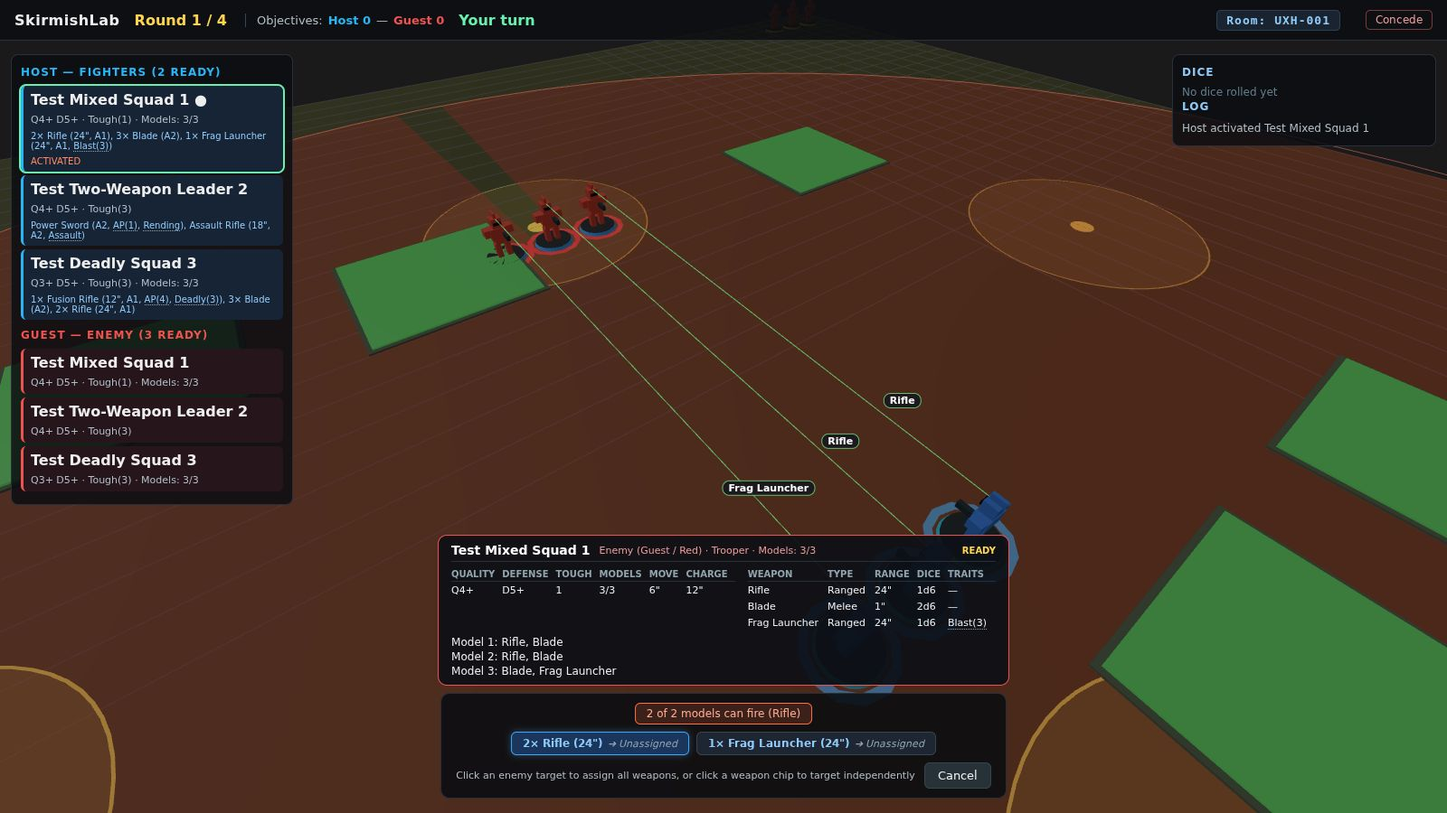
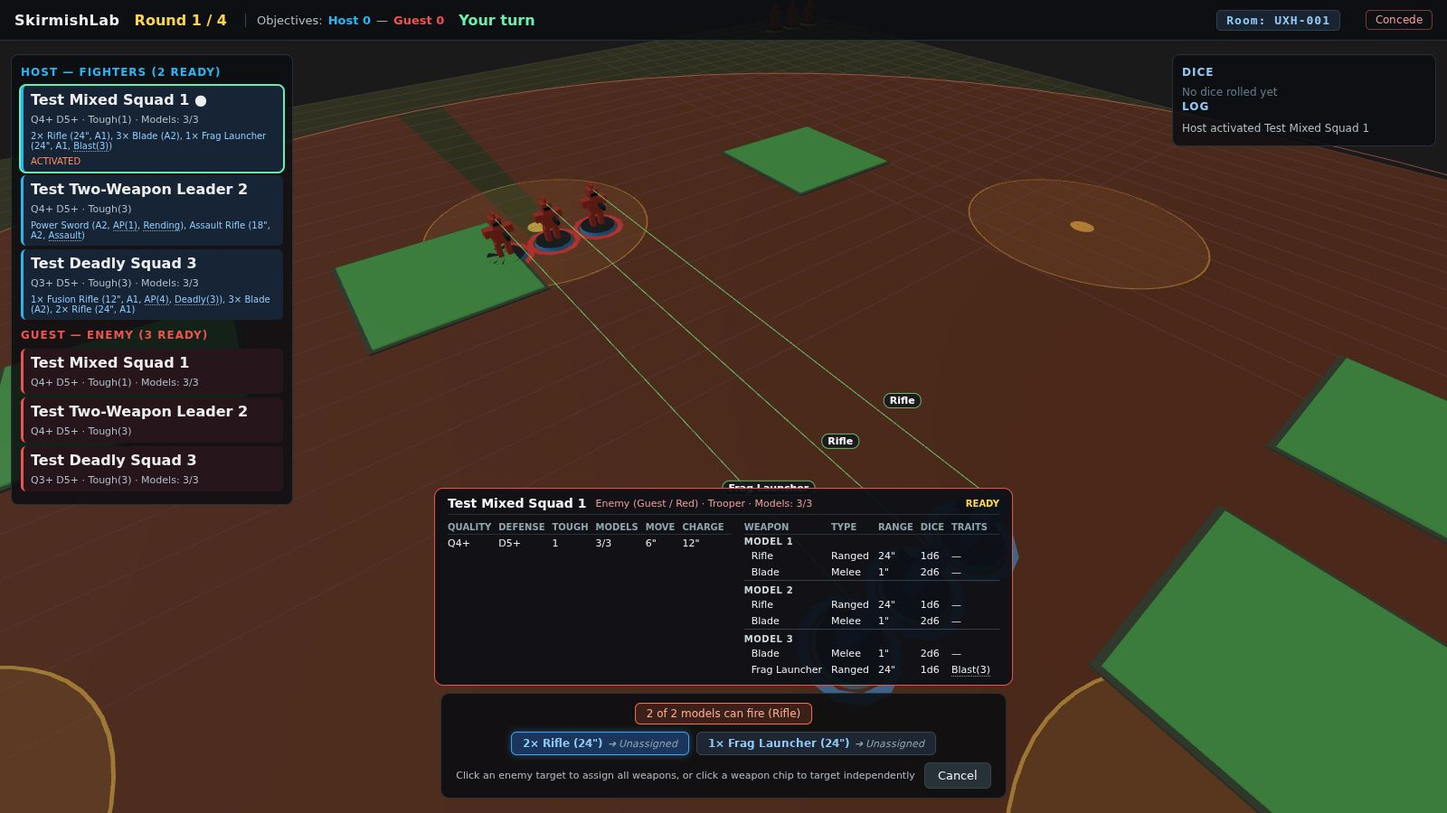
feat: per-model weapons as sub-headings in the data card's weapons table (14C-3 PR 1F)
For units whose models carry different weapons, the weapons table has a sub-heading row per model (fixed numbers; "Model N — removed" for a dead model) followed by that model's weapon rows. Replaces the "Model N: weapons" lines under the table. Hovering a model highlights its sub-heading and rows. Docs, manual checklist and UI inventory updated.

Changed region(s): [[0.2812, 0.5911, 0.7188, 0.84]]

diff --git a/client/tests/ui/GameHUD.modelWeapons.test.ts b/client/tests/ui/GameHUD.modelWeapons.test.ts
@@ -63,34 +63,62 @@ function clickByText(root: HTMLElement, text: string): boolean {
 
 const cardText = (root: HTMLElement) => root.querySelector('.sl-hud-datacard')?.textContent ?? '';
 
-describe('which model carries which weapon (14C-3 PR 1E)', () => {
+/** The data card's weapons table as text: a heading row's text, or "name|type|range|dice" for a weapon row. */
+function weaponTable(root: HTMLElement): string[] {
+  const table = root.querySelectorAll('.sl-hud-datacard .sl-hud-table')[1];
+  return Array.from(table.querySelectorAll('tbody tr')).map((tr) =>
+    Array.from(tr.children)
+      .slice(0, 4)
+      .map((c) => c.textContent?.trim() ?? '')
+      .join('|')
+  );
+}
+
+describe('which model carries which weapon (14C-3 PR 1E, 1F)', () => {
   beforeEach(() => {
     document.body.innerHTML = '';
   });
 
   describe('unit data card', () => {
-    it('lists the weapons per model by fixed number for a mixed squad', () => {
+    it('splits the weapons table with a sub-heading per model, in fixed order, each followed by that model\'s weapon rows', () => {
       const mine = armyUnits(HOST, P(0, 0), P(10, 0));
       const foe = armyUnits(GUEST, P(0, 20), P(10, 20));
       const state = baseState([mine.squad, mine.leader, foe.squad, foe.leader], mine.squad.id);
       const { container } = setup(HOST, state);
-      const text = cardText(container);
-      expect(text).toContain('Model 1: Rifle, Blade');
-      expect(text).toContain('Model 2: Rifle, Blade');
-      expect(text).toContain('Model 3: Blade, Frag Launcher');
+      expect(weaponTable(container)).toEqual([
+        'Model 1',
+        'Rifle|Ranged|24"|1d6',
+        'Blade|Melee|1"|2d6',
+        'Model 2',
+        'Rifle|Ranged|24"|1d6',
+        'Blade|Melee|1"|2d6',
+        'Model 3',
+        'Blade|Melee|1"|2d6',
+        'Frag Launcher|Ranged|24"|1d6',
+      ]);
+      // The old "Model N: weapons" lines under the table are gone
+      expect(container.querySelector('.sl-hud-model-weapons')).toBeNull();
+      expect(cardText(container)).not.toContain('Model 1:');
     });
 
-    it('shows a dead model as removed and does not renumber the others', () => {
+    it('a dead model keeps its numbered heading, marked removed, with no weapon rows; the others are not renumbered', () => {
       const mine = armyUnits(HOST, P(0, 0), P(10, 0));
       const foe = armyUnits(GUEST, P(0, 20), P(10, 20));
       mine.squad.models[1].isDestroyed = true;
       const state = baseState([mine.squad, mine.leader, foe.squad, foe.leader], mine.squad.id);
       const { container } = setup(HOST, state);
-      const text = cardText(container);
-      expect(text).toContain('Model 1: Rifle, Blade');
-      expect(text).toContain('Model 2: removed');
-      expect(text).toContain('Model 3: Blade, Frag Launcher');
-      expect(container.querySelector('.sl-hud-model-removed')).not.toBeNull();
+      expect(weaponTable(container)).toEqual([
+        'Model 1',
+        'Rifle|Ranged|24"|1d6',
+        'Blade|Melee|1"|2d6',
+        'Model 2 — removed',
+        'Model 3',
+        'Blade|Melee|1"|2d6',
+        'Frag Launcher|Ranged|24"|1d6',
+      ]);
+      const removed = container.querySelectorAll('.sl-hud-datacard tr.sl-hud-model-removed');
+      expect(removed).toHaveLength(1);
+      expect(removed[0].getAttribute('data-model-number')).toBe('2');
     });
 
     it('keeps the plain weapon table for a unit whose models all carry the same weapons', () => {
@@ -99,7 +127,8 @@ describe('which model carries which weapon (14C-3 PR 1E)', () => {
       const state = baseState([mine.squad, mine.leader, foe.squad, foe.leader], mine.leader.id);
       const { container } = setup(HOST, state);
       const text = cardText(container);
-      expect(text).not.toContain('Model 1:');
+      expect(container.querySelector('.sl-hud-datacard .sl-hud-model-heading')).toBeNull();
+      expect(text).not.toContain('Model 1');
       expect(text).toContain('Power Sword');
       expect(text).toContain('Assault Rifle');
     });
@@ -111,7 +140,7 @@ describe('which model carries which weapon (14C-3 PR 1E)', () => {
       const { container } = setup(HOST, state);
       const row = container.querySelector(`.sl-hud-unit[data-unit-id="${mine.squad.id}"]`) as HTMLElement;
       expect(row.textContent).toContain('2× Rifle');
-      expect(row.textContent).not.toContain('Model 1:');
+      expect(row.textContent).not.toContain('Model 1');
     });
   });
 
@@ -125,6 +154,21 @@ describe('which model carries which weapon (14C-3 PR 1E)', () => {
       const hovered = container.querySelector('.sl-hud-hovered-model');
       expect(hovered?.textContent).toContain('Model 3');
       expect(hovered?.textContent).toContain('Blade, Frag Launcher');
+    });
+
+    it('highlights the hovered model\'s sub-heading and its weapon rows, and nothing else', () => {
+      const mine = armyUnits(HOST, P(0, 0), P(10, 0));
+      const foe = armyUnits(GUEST, P(0, 20), P(10, 20));
+      const state = baseState([mine.squad, mine.leader, foe.squad, foe.leader], mine.leader.id, GUEST);
+      const { hud, container } = setup(HOST, state);
+      hud.handleBoardHover({ kind: 'unit', unitId: mine.squad.id });
+      expect(container.querySelector('.sl-hud-datacard .sl-hud-model-hovered')).toBeNull();
+      hud.handleBoardHover({ kind: 'unit', unitId: mine.squad.id, modelId: mine.squad.models[2].id });
+      const lit = Array.from(container.querySelectorAll('.sl-hud-datacard tr.sl-hud-model-hovered'));
+      expect(lit.map((r) => r.querySelector('th, td')?.textContent?.trim())).toEqual(['Model 3', 'Blade', 'Frag Launcher']);
+      hud.handleBoardHover({ kind: 'unit', unitId: mine.squad.id, modelId: mine.squad.models[0].id });
+      const moved = Array.from(container.querySelectorAll('.sl-hud-datacard tr.sl-hud-model-hovered'));
+      expect(moved.map((r) => r.querySelector('th, td')?.textContent?.trim())).toEqual(['Model 1', 'Rifle', 'Blade']);
     });
 
     it('uses the fixed number after an earlier model died', () => {

diff --git a/client/src/ui/GameHUD.ts b/client/src/ui/GameHUD.ts
@@ -117,9 +117,9 @@ import {
   mergeAimLines,
   modelLabel,
   modelNumber,
-  modelWeaponLines,
+  modelWeaponBlocks,
   modelWeaponNames,
-  modelWeaponText,
+  modelBlockHeading,
 } from './modelLoadout';
 import { soundFx } from '../audio/SoundFx';
 import {
@@ -5338,34 +5338,20 @@ export class GameHUD {
     const unitTraits = unit.specialRules
       .map((r) => `<span class="sl-trait-badge" title="${escapeHtmlAttr(describeTrait(r))}">${formatTraitLabel(r)}</span>`)
       .join(' · ');
-    // Models that carry different weapons are listed one by one (fixed numbers); the table keeps the weapon stats
+    // Models that carry different weapons get a sub-heading row each in the weapons table (fixed numbers, PR 1F)
     const perModel = loadoutsDiffer(unit);
     const hoveredModel =
       perModel && this.hoveredUnitId === unit.id && this.hoveredModelId
         ? (unit.models ?? []).find((m) => m.id === this.hoveredModelId && !m.isDestroyed)
         : undefined;
-    const modelListHtml = perModel
-      ? `<div class="sl-hud-model-weapons" style="margin-top: 6px; font-size: 12px; display: flex; flex-direction: column; gap: 2px;">
-          ${modelWeaponLines(unit)
-            .map(
-              (l) =>
-                `<div class="sl-hud-model-line${l.removed ? ' sl-hud-model-removed' : ''}" style="${
-                  l.removed ? 'opacity: 0.45; text-decoration: line-through;' : ''
-                }${l.modelId === hoveredModel?.id ? 'color: #ffeb3b; font-weight: 600;' : ''}">${escapeHtmlAttr(modelWeaponText(l))}</div>`
-            )
-            .join('')}
-        </div>`
-      : '';
     const hoveredModelHtml = hoveredModel
       ? `<div class="sl-hud-hovered-model" style="margin-top: 4px; font-size: 12px; color: #ffeb3b;">${modelLabel(unit, hoveredModel.id)} · ${escapeHtmlAttr(
           modelWeaponNames(unit, hoveredModel) || 'no weapons'
         )}</div>`
       : '';
-    const weaponRows = carriedWeapons(unit)
-      .map(
-        (w) => `
-          <tr>
-            <td>${perModel ? '' : carrierPrefix(unit, w)}${w.name}</td>
+    const weaponRow = (w: Weapon, name: string, rowClass = '') => `
+          <tr${rowClass ? ` class="${rowClass}"` : ''}>
+            <td>${name}</td>
             <td>${w.profile.type === 'ranged' ? (isMeleeWeapon(w) ? 'Ranged + Melee' : 'Ranged') : 'Melee'}</td>
             <td>${w.profile.type === 'ranged' ? `${w.profile.range}"` : '1"'}</td>
             <td>${w.profile.attacks}d6</td>
@@ -5374,9 +5360,20 @@ export class GameHUD {
                 .map((r) => `<span class="sl-trait-badge" title="${escapeHtmlAttr(describeTrait(r))}">${formatTraitLabel(r)}</span>`)
                 .join(', ') || '—'
             }</td>
-          </tr>`
-      )
-      .join('');
+          </tr>`;
+    const weaponRows = perModel
+      ? modelWeaponBlocks(unit)
+          .map((b) => {
+            const state = b.removed ? ' sl-hud-model-removed' : b.modelId === hoveredModel?.id ? ' sl-hud-model-hovered' : '';
+            return `
+          <tr class="sl-hud-model-heading${state}" data-model-number="${b.number}">
+            <th colspan="5">${modelBlockHeading(b)}</th>
+          </tr>${b.weapons.map((w) => weaponRow(w, w.name, `sl-hud-model-row${state}`)).join('')}`;
+          })
+          .join('')
+      : carriedWeapons(unit)
+          .map((w) => weaponRow(w, `${carrierPrefix(unit, w)}${w.name}`))
+          .join('');
 
     const totalModels = unit.models ? unit.models.length : 1;
     const aliveModels = unit.models ? unit.models.filter((m) => !m.isDestroyed).length : 1;
@@ -5418,7 +5415,6 @@ export class GameHUD {
             </tbody>
           </table>
         </div>
-        ${modelListHtml}
       </div>`;
   }
 
@@ -6600,6 +6596,13 @@ export class GameHUD {
 .sl-hud-table th { text-align: left; color: #90a4ae; font-weight: 600; padding: 2px 8px 2px 0;
   border-bottom: 1px solid #263238; text-transform: uppercase; font-size: 10px; }
 .sl-hud-table td { padding: 3px 10px 2px 0; color: #eceff1; font-weight: 500; }
+.sl-hud-table tr.sl-hud-model-heading th { padding: 5px 8px 1px 0; color: #cfd8dc; font-size: 10px; letter-spacing: 0.06em;
+  text-transform: uppercase; border-top: 1px solid rgba(144, 164, 174, 0.3); border-bottom: none; }
+.sl-hud-table tr.sl-hud-model-heading:first-child th { border-top: none; padding-top: 2px; }
+.sl-hud-table tr.sl-hud-model-row td:first-child { padding-left: 8px; }
+.sl-hud-table tr.sl-hud-model-removed th { color: #78909c; opacity: 0.6; }
+.sl-hud-table tr.sl-hud-model-hovered th, .sl-hud-table tr.sl-hud-model-hovered td { color: #ffeb3b; }
+.sl-hud-table tr.sl-hud-model-hovered th { font-weight: 700; }
 .sl-hud-bottom { pointer-events: auto; display: flex; align-items: center; gap: 10px;
   background: rgba(10, 12, 16, 0.88); border: 1px solid #2a2f3a; border-radius: 10px;
   padding: 10px 16px; }

diff --git a/tools/ux-inventory/catalog.js b/tools/ux-inventory/catalog.js
@@ -96,11 +96,11 @@ module.exports = [
         purpose: 'Review the full allocation before Confirm.' },
       { img: '15-multiweapon-dice', title: 'Salvo result with Blast', what: 'Dice panel "… Salvo (5 weapons)": one block per weapon, a total line, the Blast spread line and the "Blast spill" note. Bottom: "Waiting for Host to remove casualties (29s)…".',
         purpose: 'Multi-weapon and Blast results; the opponent is now picking casualties.' },
-      { img: 'l13-01-loadout-unit-list', title: 'Weapon counts in the unit list (per-model loadouts)', what: 'Unit card of "Test Mixed Squad 1" (TEST: Loadouts Check): "2× Rifle (24", A1), 3× Blade (A2), 1× Frag Launcher (24", A1, Blast(3))". The data card below it lists the weapons per model by fixed number ("Model 1: Rifle, Blade", "Model 2: Rifle, Blade", "Model 3: Blade, Frag Launcher"; a dead model reads "Model N: removed", greyed and struck through, and the others keep their numbers). Units whose models all carry the same weapons keep the plain list. A weapon whose carriers are all dead disappears from the unit list; a single model shows no count.',
+      { img: 'l13-01-loadout-unit-list', title: 'Weapon counts in the unit list (per-model loadouts)', what: 'Unit card of "Test Mixed Squad 1" (TEST: Loadouts Check): "2× Rifle (24", A1), 3× Blade (A2), 1× Frag Launcher (24", A1, Blast(3))". The data card below it splits its weapons table by model: a sub-heading row per model by fixed number ("Model 1", "Model 2", "Model 3"), each followed by that model\'s weapon rows (type, range, dice, traits). A dead model\'s heading reads "Model N — removed", greyed, with no rows, and the others keep their numbers. Units whose models all carry the same weapons keep the plain table. A weapon whose carriers are all dead disappears from the unit list; a single model shows no count.',
         purpose: 'Models carry their own weapons: the unit list counts living carriers, the data card says which model carries what, and each carrier fires or strikes with its weapon.' },
       { img: 'l13-02-loadout-shoot-confirm', title: 'Shoot with per-model weapons', what: 'Chips "2× Rifle (24") ➔ Test Mixed Squad 1 · 2 fire" and "1× Frag Launcher (24") ➔ … · 1 fire", and the summary "fires 2× Rifle & 1× Frag Launcher at …". The firing count is the same one the host uses (range and sight per model).',
         purpose: 'See how many models fire each weapon before Confirm; a model out of range or sight does not add its weapon.' },
-      { img: 'l13-07-model-hover', title: 'Hovering a model', what: 'Hovering one model of "Test Mixed Squad 1" on the board adds "Model 3 · Blade, Frag Launcher" in yellow to the data card header and highlights that model\'s line in the per-model list.',
+      { img: 'l13-07-model-hover', title: 'Hovering a model', what: 'Hovering one model of "Test Mixed Squad 1" on the board adds "Model 3 · Blade, Frag Launcher" in yellow to the data card header and highlights that model\'s sub-heading and weapon rows in the weapons table.',
         purpose: 'Find out which model of a mixed squad carries which weapon, with the same fixed number used everywhere.' },
       { img: 'l13-08-aim-lines-labelled', title: 'Aim lines labelled with weapons', what: 'Shoot preview over an enemy squad: one solid green line per shooter model, each with a small label by the shooter naming the weapons that model fires at that target ("Rifle", "Rifle", "Frag Launcher"; a model that cannot see the target has a faint dashed red line and no label). Only units whose models carry different weapons are labelled.',
         purpose: 'See before committing which model fires what.' },

diff --git a/doc/ux/inventory/index.html b/doc/ux/inventory/index.html
@@ -533,7 +533,7 @@ dd { margin: 0; color: var(--ink); overflow-wrap: anywhere; }
           <p class="num">36</p>
           <h3>Weapon counts in the unit list (per-model loadouts)</h3>
           <dl>
-            <dt>What it is</dt><dd>Unit card of &quot;Test Mixed Squad 1&quot; (TEST: Loadouts Check): &quot;2× Rifle (24&quot;, A1), 3× Blade (A2), 1× Frag Launcher (24&quot;, A1, Blast(3))&quot;. The data card below it lists the weapons per model by fixed number (&quot;Model 1: Rifle, Blade&quot;, &quot;Model 2: Rifle, Blade&quot;, &quot;Model 3: Blade, Frag Launcher&quot;; a dead model reads &quot;Model N: removed&quot;, greyed and struck through, and the others keep their numbers). Units whose models all carry the same weapons keep the plain list. A weapon whose carriers are all dead disappears from the unit list; a single model shows no count.</dd>
+            <dt>What it is</dt><dd>Unit card of &quot;Test Mixed Squad 1&quot; (TEST: Loadouts Check): &quot;2× Rifle (24&quot;, A1), 3× Blade (A2), 1× Frag Launcher (24&quot;, A1, Blast(3))&quot;. The data card below it splits its weapons table by model: a sub-heading row per model by fixed number (&quot;Model 1&quot;, &quot;Model 2&quot;, &quot;Model 3&quot;), each followed by that model's weapon rows (type, range, dice, traits). A dead model's heading reads &quot;Model N — removed&quot;, greyed, with no rows, and the others keep their numbers. Units whose models all carry the same weapons keep the plain table. A weapon whose carriers are all dead disappears from the unit list; a single model shows no count.</dd>
             <dt>Purpose</dt><dd>Models carry their own weapons: the unit list counts living carriers, the data card says which model carries what, and each carrier fires or strikes with its weapon.</dd>
           </dl>
         </div>
@@ -557,7 +557,7 @@ dd { margin: 0; color: var(--ink); overflow-wrap: anywhere; }
           <p class="num">38</p>
           <h3>Hovering a model</h3>
           <dl>
-            <dt>What it is</dt><dd>Hovering one model of &quot;Test Mixed Squad 1&quot; on the board adds &quot;Model 3 · Blade, Frag Launcher&quot; in yellow to the data card header and highlights that model's line in the per-model list.</dd>
+            <dt>What it is</dt><dd>Hovering one model of &quot;Test Mixed Squad 1&quot; on the board adds &quot;Model 3 · Blade, Frag Launcher&quot; in yellow to the data card header and highlights that model's sub-heading and weapon rows in the weapons table.</dd>
             <dt>Purpose</dt><dd>Find out which model of a mixed squad carries which weapon, with the same fixed number used everywhere.</dd>
           </dl>
         </div>

diff --git a/client/src/ui/modelLoadout.ts b/client/src/ui/modelLoadout.ts
@@ -49,27 +49,30 @@ export function loadoutsDiffer(unit: Pick<Unit, 'weapons' | 'models'>): boolean 
   return models.some((m) => key(m) !== first);
 }
 
-export interface ModelWeaponLine {
+export interface ModelWeaponBlock {
   number: number;
   modelId: string;
   removed: boolean;
-  /** "Battle Rifle, Strike"; empty for a removed model. */
-  weapons: string;
+  /** The weapons this model carries, in the unit's weapon order; empty for a removed model. */
+  weapons: Weapon[];
 }
 
-/** One entry per model in fixed order, for the data card's per-model list. */
-export function modelWeaponLines(unit: Pick<Unit, 'weapons' | 'models'>): ModelWeaponLine[] {
+/**
+ * One block per model in fixed order, for the data card's weapons table (14C-3 PR 1F): a sub-heading row per
+ * model followed by that model's weapon rows. A removed model keeps its heading and number but lists no weapons.
+ */
+export function modelWeaponBlocks(unit: Pick<Unit, 'weapons' | 'models'>): ModelWeaponBlock[] {
   return (unit.models ?? []).map((m, i) => ({
     number: i + 1,
     modelId: m.id,
     removed: m.isDestroyed,
-    weapons: m.isDestroyed ? '' : modelWeaponNames(unit, m),
+    weapons: m.isDestroyed ? [] : modelWeapons(unit, m),
   }));
 }
 
-/** The text for one model: "Model 2: Battle Rifle, Strike" or "Model 2: removed". */
-export function modelWeaponText(line: ModelWeaponLine): string {
-  return `Model ${line.number}: ${line.removed ? 'removed' : line.weapons || 'no weapons'}`;
+/** The sub-heading text for one model: "Model 2" or "Model 2 — removed". */
+export function modelBlockHeading(block: Pick<ModelWeaponBlock, 'number' | 'removed'>): string {
+  return `Model ${block.number}${block.removed ? ' — removed' : ''}`;
 }
 
 /** One weapon's view of a shooter model for the aim preview (the engine's `ModelAim`). */

diff --git a/client/tests/ui/modelLoadout.test.ts b/client/tests/ui/modelLoadout.test.ts
@@ -5,9 +5,9 @@ import {
   mergeAimLines,
   modelLabel,
   modelNumber,
-  modelWeaponLines,
+  modelWeaponBlocks,
   modelWeaponNames,
-  modelWeaponText,
+  modelBlockHeading,
 } from '../../src/ui/modelLoadout';
 
 const weapon = (id: keyof typeof WEAPONS) => ({ ...WEAPONS[id], profile: { ...WEAPONS[id].profile }, isEquipped: true });
@@ -52,11 +52,12 @@ describe('loadoutsDiffer', () => {
   });
 });
 
-describe('modelWeaponLines', () => {
-  it('lists each model by fixed number and shows a dead model as removed', () => {
+describe('modelWeaponBlocks', () => {
+  it('gives one block per model in fixed order, each with its own weapons; a dead model keeps its number and lists none', () => {
     const unit = unitOf([model('a', ['rifle', 'blade']), model('b', ['rifle', 'blade'], true), model('c', ['frag-launcher', 'blade'])]);
-    const texts = modelWeaponLines(unit).map(modelWeaponText);
-    expect(texts).toEqual(['Model 1: Rifle, Blade', 'Model 2: removed', 'Model 3: Blade, Frag Launcher']);
+    const blocks = modelWeaponBlocks(unit);
+    expect(blocks.map(modelBlockHeading)).toEqual(['Model 1', 'Model 2 — removed', 'Model 3']);
+    expect(blocks.map((b) => b.weapons.map((w) => w.name))).toEqual([['Rifle', 'Blade'], [], ['Blade', 'Frag Launcher']]);
     expect(modelWeaponNames(unit, unit.models![2])).toBe('Blade, Frag Launcher');
   });
 });

diff --git a/doc/ROADMAP.md b/doc/ROADMAP.md
@@ -761,6 +761,7 @@ Phased development plan for SkirmishLab, an unofficial OPR-compatible tabletop s
   - [x] 14C-3 PR 1C (plan `doc/plans/14C-3-armies.md`, Decisions 3 and 3b): loadouts and multi-weapon melee in the HUD. The unit list and data card show each weapon with the number of living models carrying it (`2× Rifle`; a weapon whose carriers all died is dropped, no count for a single model); the shoot panel offers only carried weapons and each weapon chip shows how many models fire it at the chosen target (shared `firingModels`); there is no melee weapon choice, the charge confirmation lists every melee weapon with its attacks (`weaponId` is still sent, it is the first melee weapon); the dice panel and log show one line per melee weapon from `outcome.meleeStrikes`. New dev-only TEST army `test-loadouts-army` ("TEST: Loadouts Check") as the manual fixture. HDF itself is PR 1D.
   - [x] 14C-3 PR 1D (plan `doc/plans/14C-3-armies.md`, Decisions 3c and 6): Deadly weapons put their wounds on first when one attack uses several weapons (shooting allocations, melee strikes, strike-back, Counter strikes; dice numbering and log order unchanged, the casualty pick replays in the same order), and the Human Defense Force list (`hdf`: Company Leader 100, Veterans 125, Infantry Squad 120, Sniper 55 = 400 pts, Tough 30) with per-model loadouts, in both lobby pickers (not dev-only; default matchup unchanged). New weapons: Strike, Hand Weapon, Sgt. Hand Weapon, Pistol, Plasma Pistol, Battle Rifle, Grenade Launcher, Sniper Rifle; Plasma Rifle corrected to 24" A4 AP(2). The Force Org harness checks HDF explicitly. **14C-3 PR 1 (1A-1D) is complete.**
   - [x] 14C-3 PR 1E (plan `doc/plans/14C-3-armies.md`, Decision 3d): fixes from the owner's PR 1 pass. Which model carries which weapon is shown (data card per-model list with fixed model numbers and "removed" for dead models, model hover, aim lines labelled with each model's weapons, casualty prompt; placement chips use the same fixed numbers). Squad-mates never block sight is pinned by a regression test (the reported blocking could not be reproduced in the engine paths, see SYSTEMS). New "Test Deadly Squad" in TEST: Loadouts Check (one Fusion Rifle, two Rifles, Tough 3) for the Deadly-first manual check.
+  - [x] 14C-3 PR 1F (plan `doc/plans/14C-3-armies.md`): per-model weapons as table sub-headings. For units whose models carry different weapons, the data card's weapons table has a sub-heading row per model (fixed numbers; "Model N — removed" for a dead model) followed by that model's weapon rows; this replaces the "Model N: weapons" lines under the table. Hovering a model highlights its sub-heading and rows. Client UI only.
   - [x] 14C-2 pathing bugfix (owner playtest): Flying moves are a straight line (`findMoveBlocker` ignores terrain and units along a Flying path and checks only the stop spot: base overlap and the 1" keep-away); `findNavPath`'s no-route fallback no longer returns a path that runs through terrain/stairs; a Rush that stops short of a higher spot because another unit's 1" zone closes the stairs now says "Blocked by another unit" instead of the misleading "Can't reach that height" (HUD hover, single-unit click and squad-model click).
   - [x] 14C-2 keep-away in 3D bugfix (owner, 2026-11-10): the 1" keep-away is the real 3D distance between bases (`keepAwayGap3D`), sampled along the mover's actual height on every path segment; used by move/rush/charge paths, end spots, Flying stops, deployment, group-crossing and push placements, and the red zones (models 1" or more above/below are faint). Melee reach and cross-level coherency unchanged.
   - [x] 14C-2 move preview: Flying indicator and stop note (owner, 2026-11-10; UI only, no rule change): Flying units get a "Flying · X\" · over terrain" chip and a dashed cyan path line; a path that ends short of the cursor says where and why ("Stopped: within 1\" of <unit> (keep-away)", out of movement, difficult terrain cap, can't climb, blocked by terrain) as the hover note and as a label at the stop point, for Advance, Rush, charge legs and squad model picks.

diff --git a/doc/SYSTEMS.md b/doc/SYSTEMS.md
@@ -327,7 +327,7 @@ Shooting, the charge strike, strike-back and `fight` apply wounds through `apply
 
 **Squad-mates and sight (14C-3 PR 1E).** Models of the shooting unit never block each other's sight, in every path: `firingModels`, `squadAim` (aim lines, "N of M" chip), the F9 debugger and the host's shoot validation all trace per model with the shooter's own unit id, which `unitBlockingSegment` skips (as it skips the target's id). `shared/tests/engine/squadMatesSight.test.ts` pins it with the starting triangle (front model with two behind, rear models directly behind and to the sides) and with a different unit in the way still blocking. The owner reported rear models of a squad treated as blocked by the front model. The engine paths could not reproduce it (see below); the likely cause was the aim-line colours: firing lines were deep orange (0xff7043) and blocked lines red (0xef5350), too close to tell apart, so a firing line through the front model read as blocked. Firing lines are now solid green (0x66bb6a) and blocked lines faint dashed red. The engine paths could not reproduce a block (a randomised sweep of squad positions on the Standard Battlefield found no case where a squad-mate changed who can fire), so the test is a regression guard. The attack-range sight fan (`computeLosVisibilityPolygon`) is a separate overlay: it skips the shooter's unit but lets *other* friendly units block at their anchor point, not per model.
 
-**Which model carries which weapon (14C-3 PR 1E, Decision 3d).** Models are numbered by their fixed place in `unit.models` (`modelNumber` in `client/src/ui/modelLoadout.ts`), so "Model 2" never shifts when others die. For a unit whose models do not all carry the same weapons (`loadoutsDiffer`, dead models included): the data card lists "Model N: weapons" per model (a dead model reads "Model N: removed", struck through) under the weapon table, whose first column drops the carrier counts; hovering a model adds "Model N · weapons" to the card header; the shoot preview draws one aim line per model labelled with every weapon it fires at the chosen target (all ranged weapons that reach it while aiming, only the assigned ones once weapons are assigned; `mergeAimLines`, drawn as `CSS2DObject` labels by `MarkerRenderer.setAimLines`); the casualty-pick buttons read "Model N (xW) · weapons". Squad placement chips, toasts and the dangerous-terrain casualty selector use the same fixed numbers. Units whose models all carry the same weapons keep the plain list, and the compact unit list on the left keeps counts ("2× Rifle").
+**Which model carries which weapon (14C-3 PR 1E/1F, Decision 3d).** Models are numbered by their fixed place in `unit.models` (`modelNumber` in `client/src/ui/modelLoadout.ts`), so "Model 2" never shifts when others die. For a unit whose models do not all carry the same weapons (`loadoutsDiffer`, dead models included): the data card's weapons table is split by model (PR 1F, `modelWeaponBlocks`): a sub-heading row per model ("Model N"; a dead model reads "Model N — removed", greyed, with no rows) followed by that model's weapon rows, without carrier counts; hovering a model adds "Model N · weapons" to the card header and highlights that model's sub-heading and rows; the shoot preview draws one aim line per model labelled with every weapon it fires at the chosen target (all ranged weapons that reach it while aiming, only the assigned ones once weapons are assigned; `mergeAimLines`, drawn as `CSS2DObject` labels by `MarkerRenderer.setAimLines`); the casualty-pick buttons read "Model N (xW) · weapons". Squad placement chips, toasts and the dangerous-terrain casualty selector use the same fixed numbers. Units whose models all carry the same weapons keep the plain list, and the compact unit list on the left keeps counts ("2× Rifle").
 
 ### Shooting: two targets, Blast spread, Indirect
 - **Targets:** a `shoot` names weapon allocations for at most two distinct target units; weapons with the same `name` must all use the same target (host rejects otherwise; the HUD moves same-name weapons together).

diff --git a/doc/manual-testing/MANUAL_TEST_CHECKLIST.md b/doc/manual-testing/MANUAL_TEST_CHECKLIST.md
@@ -36,4 +36,11 @@ One living checklist for things automated tests can't prove: feel, visuals, and 
 - All items verified.
 
 ## 10. Armies and faction rules (14C-3)
-- Verified items removed (owner pass, 2026-11-11): Repel Ambushers, Hold the Line, loadout counts, Blast on the launcher only, two-weapon melee and strike-back, HDF list, squad-mates don't block sight, which model has which weapon, Deadly first. Follow-up from the pass: the per-model weapon list becomes sub-headings in the weapons table (plan PR 1F).
+- Verified items removed (owner pass, 2026-11-11): Repel Ambushers, Hold the Line, loadout counts, Blast on the launcher only, two-weapon melee and strike-back, HDF list, squad-mates don't block sight, which model has which weapon, Deadly first.
+- **Per-model weapons as table sub-headings (14C-3 PR 1F).** Setup: both players pick **TEST: Loadouts Check** (developer mode), map **Standard Battlefield**.
+  - [ ] Hover or select **Test Mixed Squad**: the data card's weapons table has a sub-heading row per model ("Model 1", "Model 2", "Model 3"), each followed by that model's own weapon rows with type, range, dice and traits (Models 1 and 2: Rifle, Blade; Model 3: Blade, Frag Launcher). There are no "Model N: weapons" lines under the table any more.
+  - [ ] Hover one model of the squad on the board: that model's sub-heading and its weapon rows turn yellow; moving to another model moves the highlight; hovering off the squad clears it.
+  - [ ] Shoot the enemy Test Mixed Squad until a model is removed (the defender picks, say, Model 2): its heading reads "Model 2 — removed", greyed, with no weapon rows; Models 1 and 3 keep their numbers and rows.
+  - [ ] **Test Deadly Squad** (one Fusion Rifle, two Rifles) is split by model the same way; **Test Two-Weapon Leader** (one model) and any HDF unit whose models all carry the same weapons keep the plain table with no sub-headings.
+  - [ ] HDF (lobby picker): **Veterans** and **Infantry Squad** show sub-headings (e.g. the Grenade Launcher only under its carrier); **Company Leader** and **Sniper** show the plain table.
+  - [ ] Unchanged: the unit list on the left still shows counts ("2× Rifle"), the aim lines are still labelled per model, and the casualty prompt still shows each model's number and weapons.

diff --git a/doc/plans/14C-3-armies.md b/doc/plans/14C-3-armies.md
@@ -96,6 +96,7 @@ Owner feedback, 2026-11-11 (checklist section 10):
 - **Docs:** UI inventory (data card, hover, aim labels, casualty prompt), manual checklist items with Setup lines, SYSTEMS (sight fix).
 
 ## PR 1F: Per-model weapons as table sub-headings  (branch: `14C-3-armies-1f`)
+Status: implemented 2026-11-11 (a dead model's heading has no rows; the yellow "Model N · weapons" line in the card header stays).
 Owner feedback on PR 1E, 2026-11-11: "Not a huge fan of this approach. Can you make it so the weapons table has sub headings to split it up for each model?"
 - **Layer:** client UI. For units whose models' loadouts differ, the data card's weapons table is split by model: a sub-heading row per model ("Model 1", "Model 2", …, fixed numbers; a dead model's heading reads "Model N — removed" with no rows or greyed rows), each followed by that model's weapon rows (type, range, dice, traits). This replaces the separate "Model N: weapons" lines under the table. Units whose models all carry the same weapons keep the plain table. Hover highlighting moves to the hovered model's sub-heading block. Compact unit list, aim-line labels and casualty prompt unchanged.
 - **Tests first** (jsdom): sub-heading per model in fixed order, a dead model's block, identical-loadout units unchanged, hover highlight.
